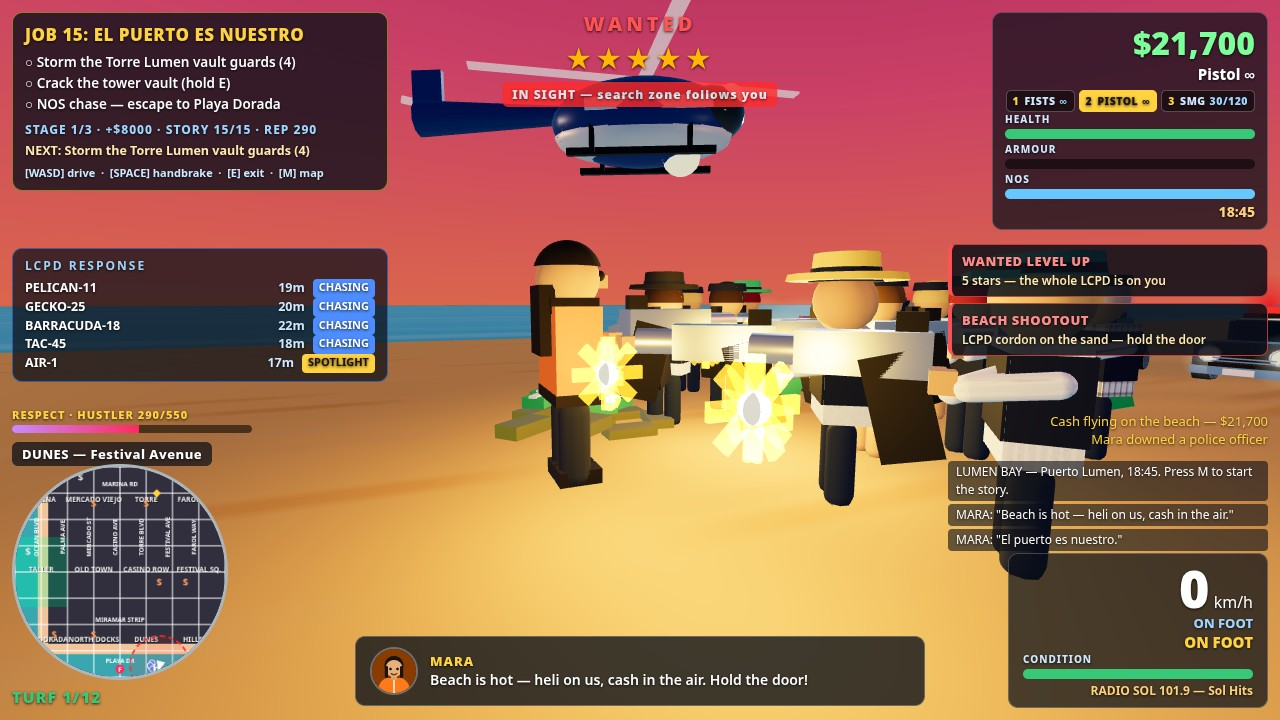
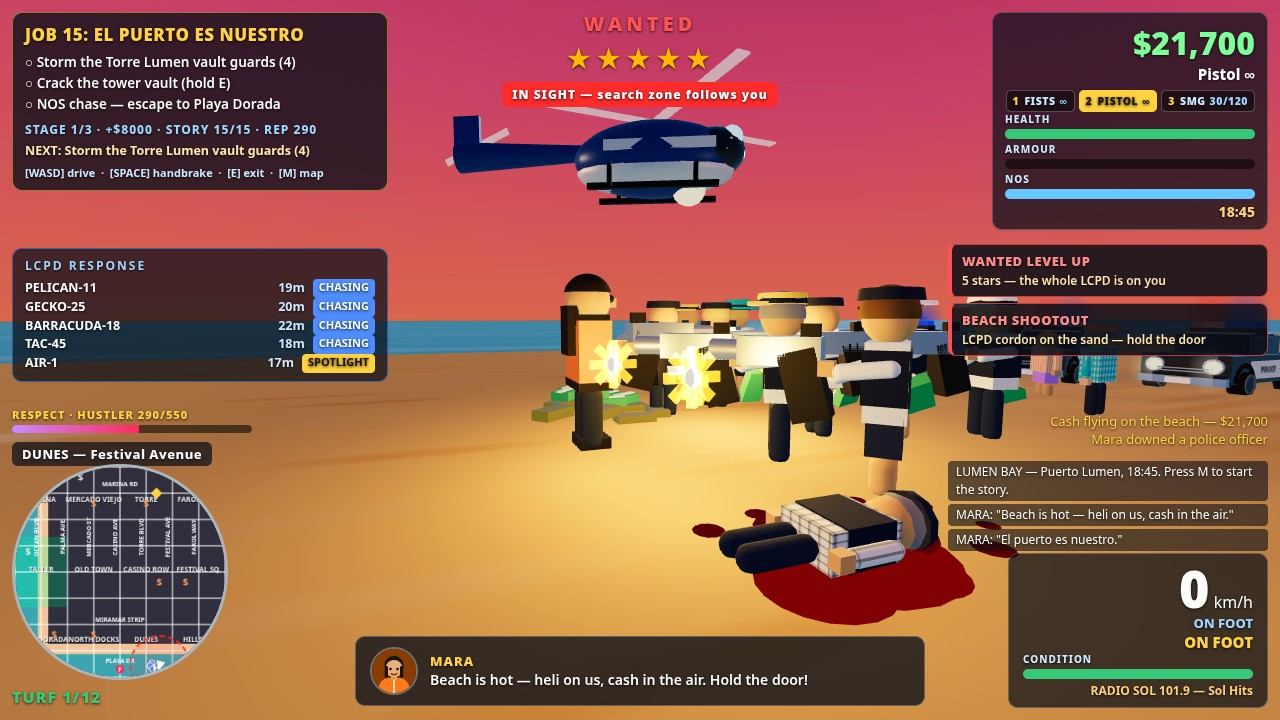
r12 shot 2 only: Mara pulled back + downed officer with blood (Sand 07:33)

diff --git a/game/src/shots.js b/game/src/shots.js
@@ -165,6 +165,24 @@ export function stageShot2(G) {
   // light bar glowing, front facing EAST toward Mara and the lens. The
   // south flanker is dropped: the hero Comet parks there instead.
   G.parkPoliceCar(78, 206, Math.PI / 2);
+  // ONE DOWNED POLICE OFFICER flat on the sand (Sand 2026-11-21 ~07:33
+  // WIT): a static prop, never in the enemy loop — head toward the
+  // cordon (west), blood pooled around the torso/head. FOREGROUND spot
+  // (89, 210): the first take at (88.5, 216.5) sat INSIDE the cordon
+  // spread and the standing officers hid the body behind their legs —
+  // only the blood pool showed. Here it lies in the open sand between
+  // the camera and the firing line, clear of Mara (91, 214), the cordon
+  // (z 214–218), the cash burst (85, 213) and the loot pile (90, 216.5).
+  // Second take moved it WEST to (87, 210): at (89, 210) its east half
+  // sat behind the right-side dialogue/toast panels. That made it WORSE:
+  // facing south, west is screen-RIGHT, so the head slid to sx 1038,
+  // behind the panels. A three.js projection of the shot-2 camera
+  // (93.23, 2.40, 205.28, fov 72) says feet (91, 209) land at sx 729 /
+  // sy 553 and head at sx 888 / sy 524 — open foreground sand, clear of
+  // the 940+ panels, below Mara (feet sx 589 / sy 448), above the bottom
+  // bar (y 640+), 5 m clear of Mara, the cordon, the cash burst and the
+  // loot pile. Third placement: (91, 209).
+  G.spawnDownedOfficer(91, 209);
   // Muzzle flashes — SMALL starbursts (Sand 2026-11-21 ~02:10 WIT: the v3
   // flash was a giant white blob that whited out the scene): scale 1.0,
   // not 1.6 — compact 8-point stars with gaps, clearly past the muzzle
@@ -212,18 +230,20 @@ export function stageShot2(G) {
   G.state.health = 100;
   G.state.armour = 100; // the cordon shoots back through the whole settle
   // LOW ground-level PROFILE view from the NORTH, looking SOUTH across
-  // the firing line: the camera sits 6.5 out (was 7 — closer so Mara's
-  // pistol + flash read at a glance), 2.6 high, at camYaw -0.25 (turned
-  // slightly west, down the firing line, so the cordon stays in frame)
-  // — Mara faces west in profile with her pistol + flash toward the
-  // cordon, the cordon fills the centre in profile facing her with its
-  // muzzle flashes, the Comet reads at the right edge, and the background
-  // is open beach + sea + sunset sky. NO building in the frame. ALL
-  // umbrellas are cleared outright below (Sand 02:08), so none looms in
-  // the foreground or behind the duel.
+  // the firing line: the camera sits 9 out (Sand 2026-11-21 ~07:33 WIT:
+  // Mara pulled FURTHER BACK — the CAMERA moves out, not her staging,
+  // so she reads smaller and deeper with more beach/cordon/sea visible;
+  // was 6.5, 9 first, 8.5 if the pistol stops reading), 2.6 high, at
+  // camYaw -0.25 (turned slightly west, down the firing line, so the
+  // cordon stays in frame) — Mara faces west in profile with her pistol
+  // + flash toward the cordon, the cordon fills the centre in profile
+  // facing her with its muzzle flashes, the Comet reads at the right
+  // edge, and the background is open beach + sea + sunset sky. NO
+  // building in the frame. ALL umbrellas are cleared outright below
+  // (Sand 02:08), so none looms in the foreground or behind the duel.
   // Mara reads BIG in frame.
   G.camYaw = -0.25;
-  G.setCamDist(6.5);
+  G.setCamDist(9);
   G.setCamHeight(2.6);
   G.camPitch = -0.05;
   G.clearUmbrellasAll(); // Sand 02:08 — NO umbrella anywhere in shot 2

diff --git a/game/src/main.js b/game/src/main.js
@@ -775,6 +775,57 @@ const G = {
     e.mesh.position.y = 0.3;
     return e;
   },
+  /** A DOWNED POLICE OFFICER for shot 2 (Sand 2026-11-21 ~07:33 WIT):
+   one cop flat on the sand with a BLOOD SPLATTER around him, so the
+   shootout reads as a fight already won in part. STATIC prop, like the
+   parked cruiser: built from spawnDowned('police') — which never pushes
+   it into the enemies array, so updateEnemy never moves or shoots it —
+   then laid flat with the head toward the WEST (toward the cordon) and
+   the blood pooled around the torso/head. The body's own pistol is
+   hidden: laid flat it would float 0.65 m up beside the torso. Blood is
+   flat dark-red circles on the sand (MeshBasicMaterial, unlit so the
+   dusk light cannot wash it pale), y 0.09–0.12 — above the sand patch
+   (0.06), below the body's underside — plus droplets radiating out. */
+  spawnDownedOfficer(x, z) {
+    const e = this.spawnDowned(x, z, 'police');
+    // Head WEST (toward the cordon): rotation.set(0, PI/2, 0) then
+    // rotateX(-PI/2) lays the body flat with local +y (head direction)
+    // mapped to world -x. Body then spans feet (x, z) → head (x-1.85, z).
+    e.mesh.rotation.set(0, Math.PI / 2, 0);
+    e.mesh.rotateX(-Math.PI / 2);
+    e.mesh.position.y = 0.3;
+    if (e.gun) e.gun.visible = false; // no floating pistol beside the body
+    // BLOOD — a flat dark-red pool around the torso/head, built from
+    // overlapping circles so the edge reads as an irregular spill, not a
+    // disc. Centre sits over the torso (x-1.2) spreading to the head.
+    const blood = new THREE.MeshBasicMaterial({ color: 0x8b0000, side: THREE.DoubleSide });
+    const bloodDark = new THREE.MeshBasicMaterial({ color: 0x6e0000, side: THREE.DoubleSide });
+    const pool = [
+      [x - 1.35, z, 1.0, blood, 0.09],
+      [x - 1.95, z + 0.3, 0.65, bloodDark, 0.10],
+      [x - 0.7, z - 0.4, 0.6, blood, 0.10],
+      [x - 1.2, z + 0.55, 0.5, bloodDark, 0.11],
+      [x - 1.6, z - 0.55, 0.45, blood, 0.11],
+    ];
+    for (const [bx, bz, r, mat, by] of pool) {
+      const disc = new THREE.Mesh(new THREE.CircleGeometry(r, 20), mat);
+      disc.rotation.x = -Math.PI / 2;
+      disc.position.set(bx, by, bz);
+      R.scene.add(disc);
+    }
+    // Splatter droplets radiating out from the pool.
+    const drops = [
+      [x - 2.7, z - 0.5, 0.2], [x - 3.0, z + 0.6, 0.15], [x - 0.25, z + 0.85, 0.18],
+      [x - 3.2, z - 0.1, 0.12], [x - 1.0, z + 1.05, 0.15], [x - 2.4, z + 1.0, 0.12],
+    ];
+    for (const [bx, bz, r] of drops) {
+      const drop = new THREE.Mesh(new THREE.CircleGeometry(r, 12), bloodDark);
+      drop.rotation.x = -Math.PI / 2;
+      drop.position.set(bx, 0.12, bz);
+      R.scene.add(drop);
+    }
+    return e;
+  },
   /** A second crew figure standing with the player — static, never moves. */
   spawnAlly(x, z, heading) {
     const a = makePlayerMesh(R.scene);
